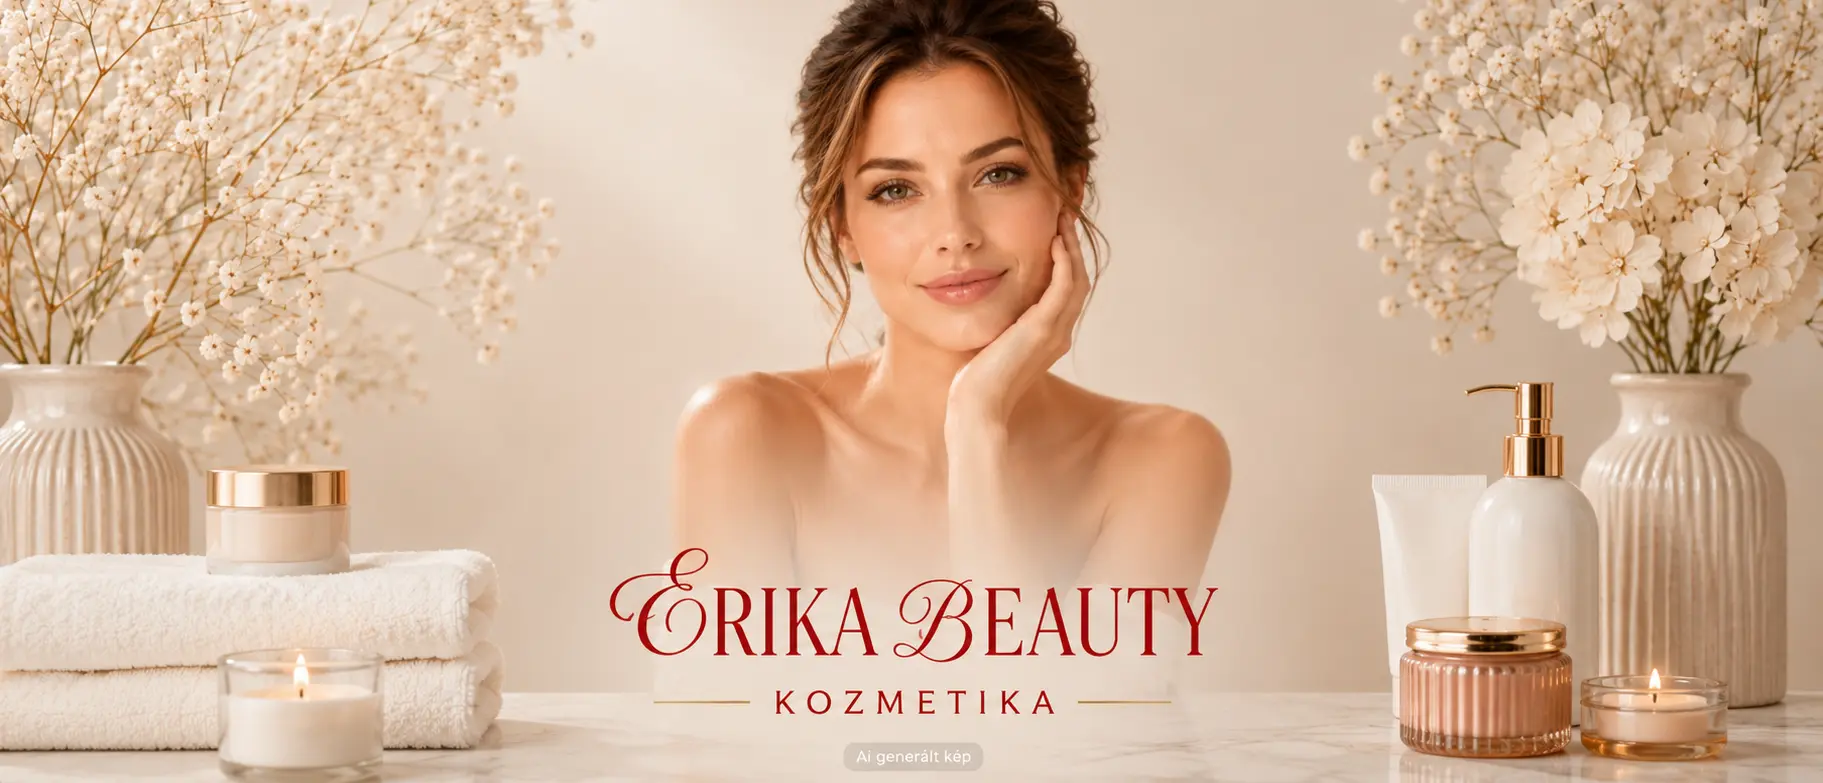
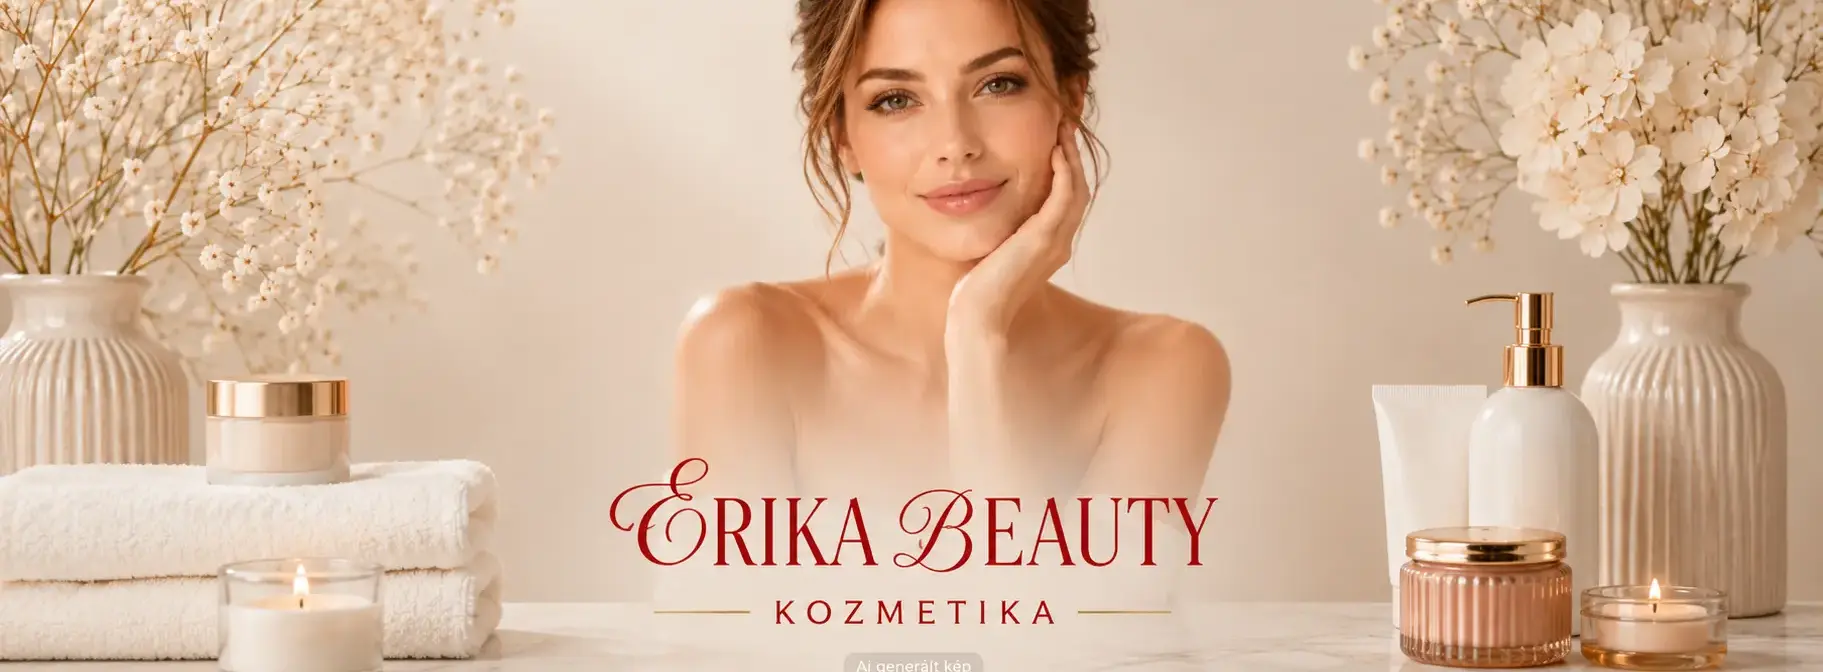
Törött Lovable-asset linkek javítva (Erika portré, lábléc háttér), felesleges Messenger gomb törölve, Kontakt és Foglalás fejléc-képek 1900x700 arányra vágva

diff --git a/src/routes/index.tsx b/src/routes/index.tsx
@@ -3,7 +3,6 @@ import { HeartHandshake, ShieldCheck, Sparkles } from "lucide-react";
 
 import { Button } from "@/components/ui/button";
 import { PageHero } from "@/components/PageHero";
-import erikaPortrait from "@/assets/erika-portrait-banner.png.asset.json";
 import { categories, site, standaloneTreatments } from "@/lib/site-data";
 import {
   canonical,
@@ -62,7 +61,7 @@ function HomePage() {
       <section className="mx-auto max-w-7xl px-4 py-14 sm:px-6 sm:py-16">
         <div className="grid items-center gap-8 md:grid-cols-[minmax(260px,0.78fr)_minmax(0,1.22fr)] lg:gap-12">
           <img
-            src={erikaPortrait.url}
+            src="/images/erika-portrait.jpg"
             alt="Erika, az Erika Beauty Kozmetika tulajdonosa"
             width={1200}
             height={800}

diff --git a/src/routes/__root.tsx b/src/routes/__root.tsx
@@ -14,7 +14,6 @@ import { reportLovableError } from "../lib/lovable-error-reporting";
 import { Header } from "@/components/Header";
 import { Footer } from "@/components/Footer";
 import { Toaster } from "@/components/ui/sonner";
-import { MessengerButton } from "@/components/MessengerButton";
 import { ScrollToTop } from "@/components/ScrollToTop";
 
 function NotFoundComponent() {
@@ -134,7 +133,6 @@ function RootComponent() {
         <Footer />
       </div>
       <ScrollToTop />
-      <MessengerButton />
       <Toaster position="bottom-right" />
     </QueryClientProvider>
   );

diff --git a/src/components/Footer.tsx b/src/components/Footer.tsx
@@ -1,14 +1,13 @@
 import { Link } from "@tanstack/react-router";
 import { MapPin, MessageCircle, Phone } from "lucide-react";
 
-import footerImage from "@/assets/footer-cherry-blossoms.png.asset.json";
 import { site } from "@/lib/site-data";
 
 export function Footer() {
   return (
     <footer className="relative min-h-[360px] overflow-hidden border-t border-border bg-secondary sm:min-h-[320px]">
       <img
-        src={footerImage.url}
+        src="/images/footer-cherry-blossoms.png"
         alt=""
         width={1920}
         height={720}
